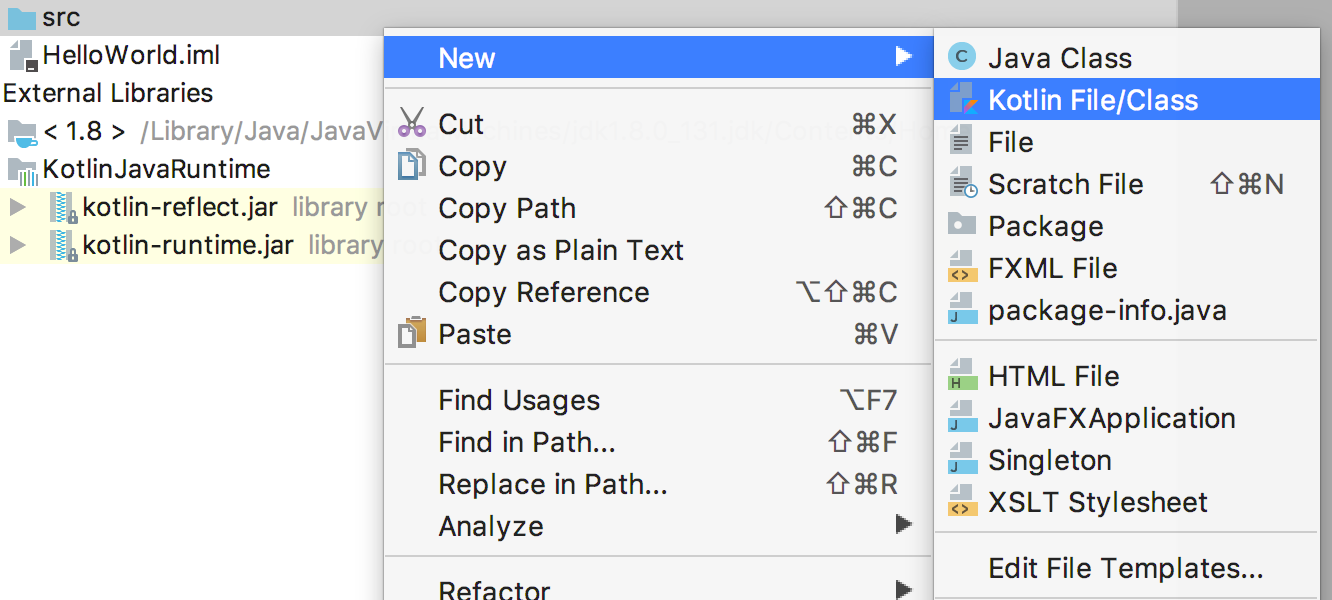
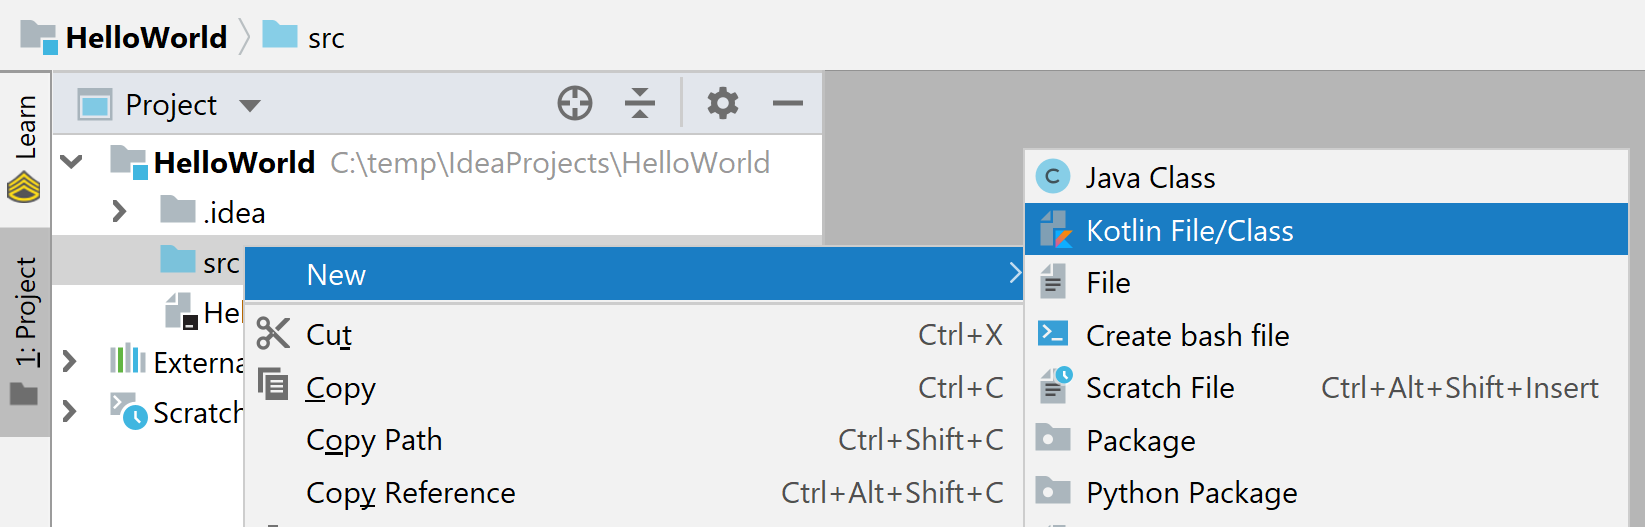
docs: update get started tutorial (#1363)
* docs: updated the getting-started tutorial

* docs: replaced the images (better resolution)

* docs: updated images and numbering

diff --git a/pages/docs/tutorials/getting-started.md b/pages/docs/tutorials/getting-started.md
@@ -4,7 +4,7 @@ layout: tutorial
 title:  "Getting Started with IntelliJ IDEA"
 description: "This tutorial walks you through creating a simple Hello World application using IntelliJ IDEA."
 authors: Hadi Hariri, Roman Belov
-date: 2017-05-04
+date: 2019-04-23
 showAuthorInfo: false
 ---
 ### Setting up the environment
@@ -13,42 +13,42 @@ For instructions on how to compile and execute Kotlin applications using the com
 
 If you are new to the JVM and Java, check out the [JVM Minimal Survival Guide](http://hadihariri.com/2013/12/29/jvm-minimal-survival-guide-for-the-dotnet-developer/). If you are new to IntelliJ IDEA, check out the [The IntelliJ IDEA Minimal Survival Guide](http://hadihariri.com/2014/01/06/intellij-idea-minimal-survival-guide/).
 
-1. **Install a recent version of IntelliJ IDEA**. Kotlin is bundled with IntelliJ IDEA
+1. Install a recent version of IntelliJ IDEA. Kotlin is bundled with IntelliJ IDEA
    starting from version 15. You can download the free [Community Edition][intellijdownload] from [JetBrains][jetbrains].
 
-2. Create a New Project. We select Java Module and select the SDK. Kotlin works with JDK 1.6+. Also, select the *Kotlin (Java)* checkbox.
+2. Create a new __Project__ from __File \| New__. Select the __Kotlin \| JVM \| IDEA__ project type.
 
    ![Kotlin New Project]({{ url_for('tutorial_img', filename='getting-started/new_project_step1.png') }})
 
-3. Give our project a name on the next step.
+3. Give your project a name and select an SDK version for it.
 
    ![Kotlin Project Name]({{ url_for('tutorial_img', filename='getting-started/project_name.png') }})
 
-4. We should now have the new project created with the following folder structure:
+   Now you have the new project created with the following folder structure:
 
    ![Kotlin Folder Structure]({{ url_for('tutorial_img', filename='getting-started/folders.png') }})
 
-5. Let's create a new Kotlin file under the source folder. It can be named anything. In our case, we will call it *app*.
+4. Create a new Kotlin file under the source folder. It can be named anything. Let's call it *app*.
 
    ![Kotlin New File]({{ url_for('tutorial_img', filename='getting-started/new_file.png') }})
 
-6. Once we have the file created, we need to type the main routine, which is the entry point to a Kotlin application. IntelliJ IDEA offers us a template to do this quickly. Just type *main* and press tab.
+5. Once the file is created, add the `main` function which is the entry point to a Kotlin application. IntelliJ IDEA offers a template to do this quickly. Just type *main* and press tab.
 
    ![Kotlin Main Fun]({{ url_for('tutorial_img', filename='getting-started/main.png') }})
 
-7. Let's now add a line of code to print out 'Hello, World!'.
+6. Add a line of code to print out 'Hello, World!'.
 
-   ![Kotlin New File]({{ url_for('tutorial_img', filename='getting-started/hello_world.png') }})
+   ![Kotlin Hello World]({{ url_for('tutorial_img', filename='getting-started/hello_world.png') }})
 
-8. Now we can run the application. The easiest way is to click on the Kotlin icon in the gutter and select *Run 'AppKt'*.
+   Now the application is ready to run. The easiest way is to click on the Kotlin icon in the gutter and select __Run 'AppKt'__.
 
-   ![Kotlin Folder Structure]({{ url_for('tutorial_img', filename='getting-started/run_default.png') }})
+   ![Kotlin Run App]({{ url_for('tutorial_img', filename='getting-started/run_default.png') }})
 
-9. If everything went well, we should now see the result in the **Run** tool window.
+If everything went well, you'll see the result in the **Run** tool window.
 
-   ![Kotlin Folder Structure]({{ url_for('tutorial_img', filename='getting-started/run_window.png') }})
+   ![Kotlin Run Output]({{ url_for('tutorial_img', filename='getting-started/run_window.png') }})
 
-Congratulations! We now have our first application running.
+Congratulations! You now have your first Kotlin application running.
 
 [intellijdownload]: http://www.jetbrains.com/idea/download/index.html
 [jetbrains]: http://www.jetbrains.com
